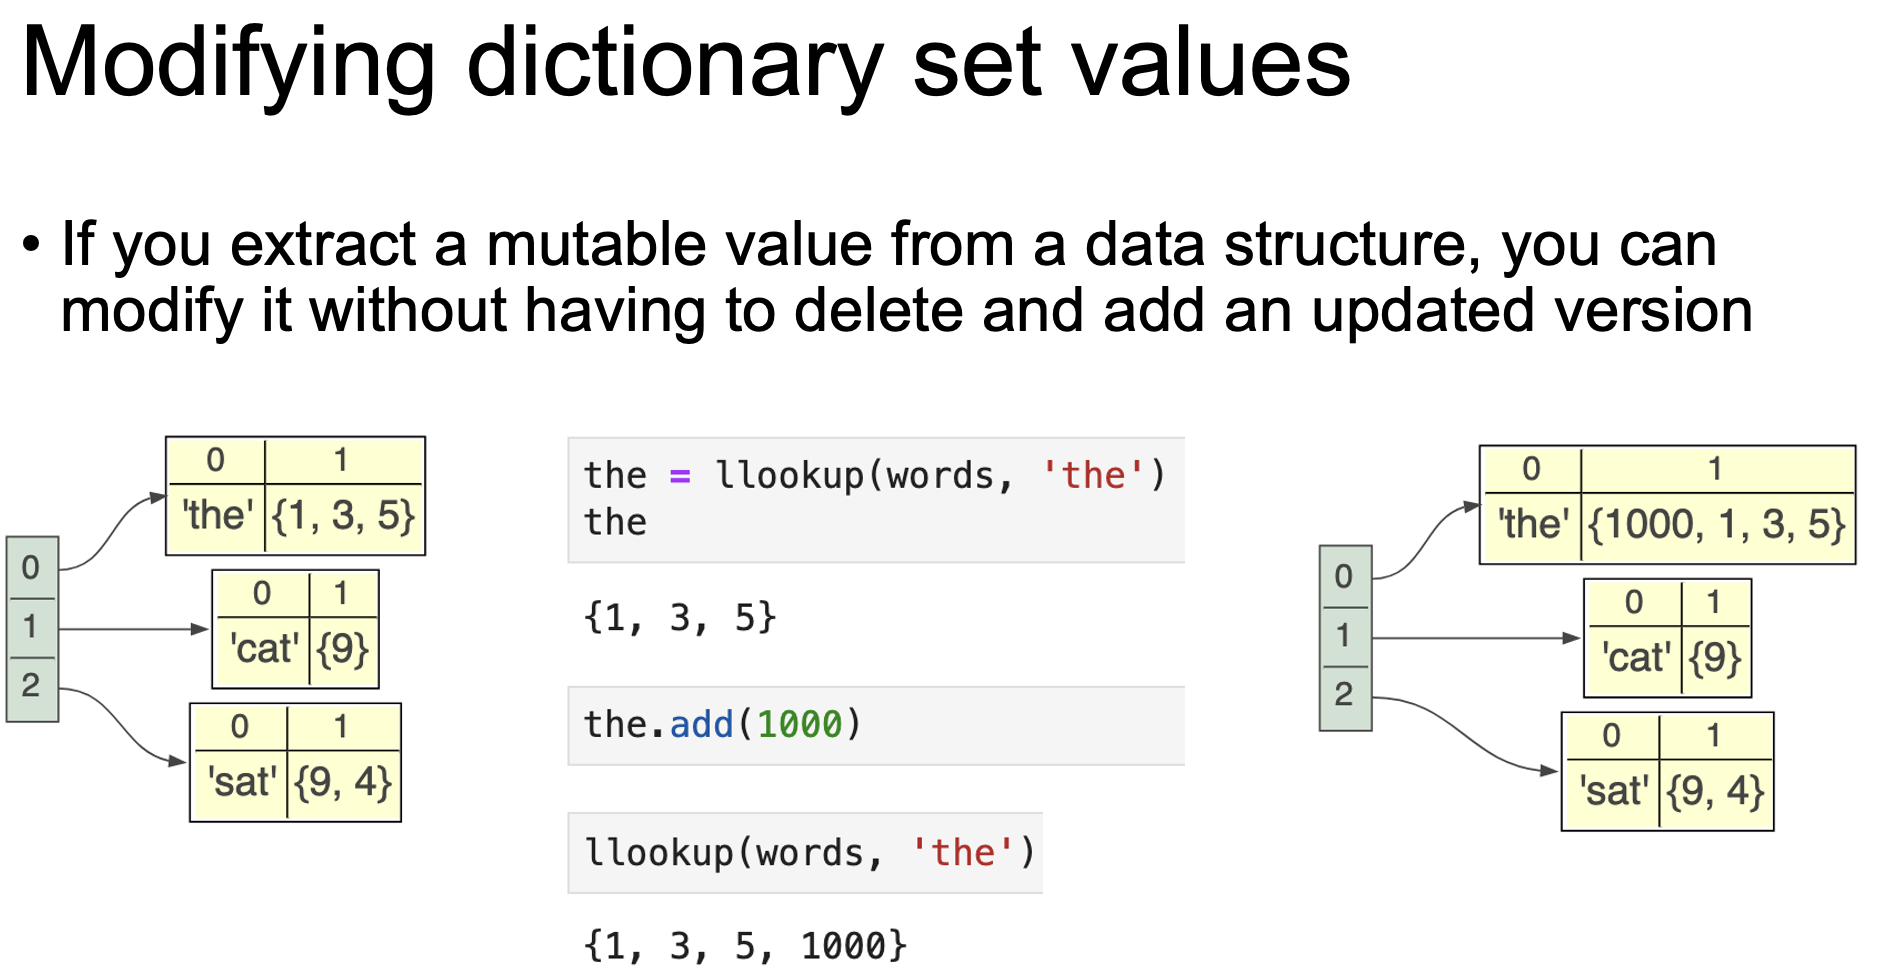
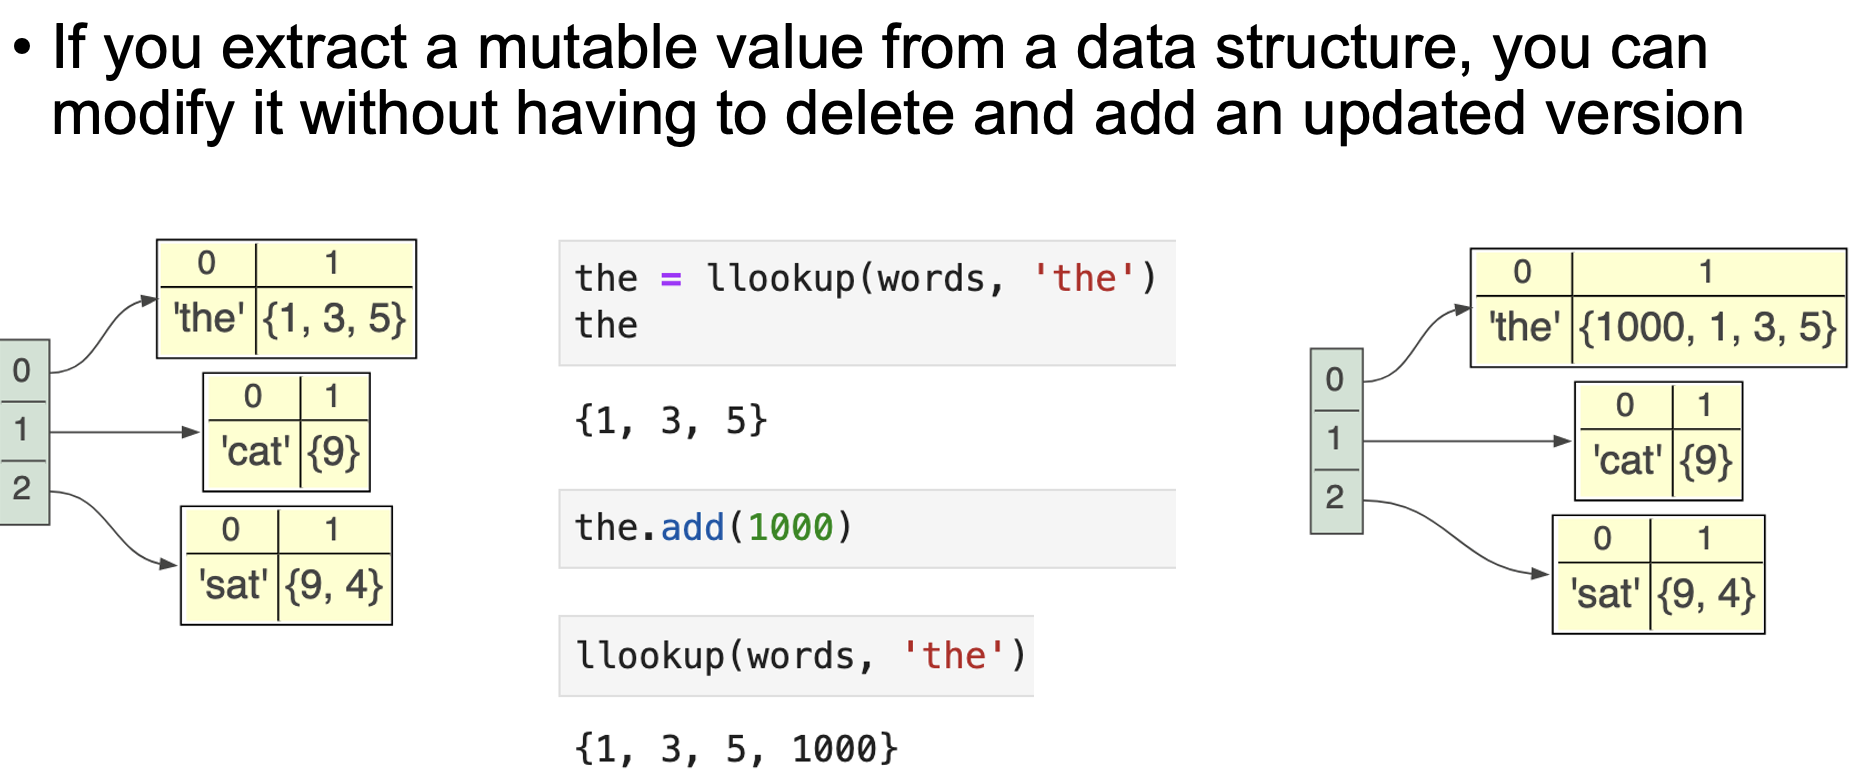
update slides/projects

diff --git a/hw/search.md b/hw/search.md
@@ -265,7 +265,9 @@ The confusing part is how you update the search index entries when it is your ow
 
 Now look at the example where we map `'ronald'` to set `{9,3}`.  That set is **mutable** so, if you want to update the set, you don't have to replace the `('ronald', {9,3})` association in the hash table. Just update the set that already exists.  You would need to initialize the search index with empty sets as part of your search index initialization but after that the hash table "get" will retrieve the existing set. You can then simply call set `add()` to add a document ID to that set. Recall the slide from lecture:
 
+<center>
 <img src="figures/mutable-values.png" width="500">
+</center>
 
 ## Getting started
 
